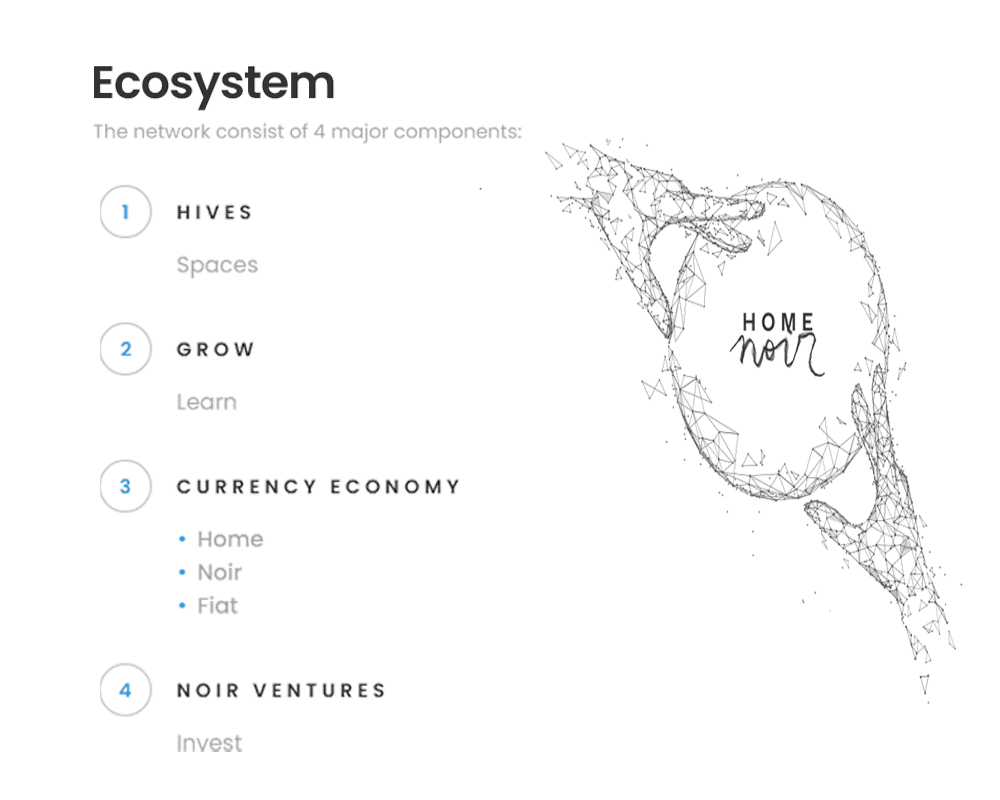
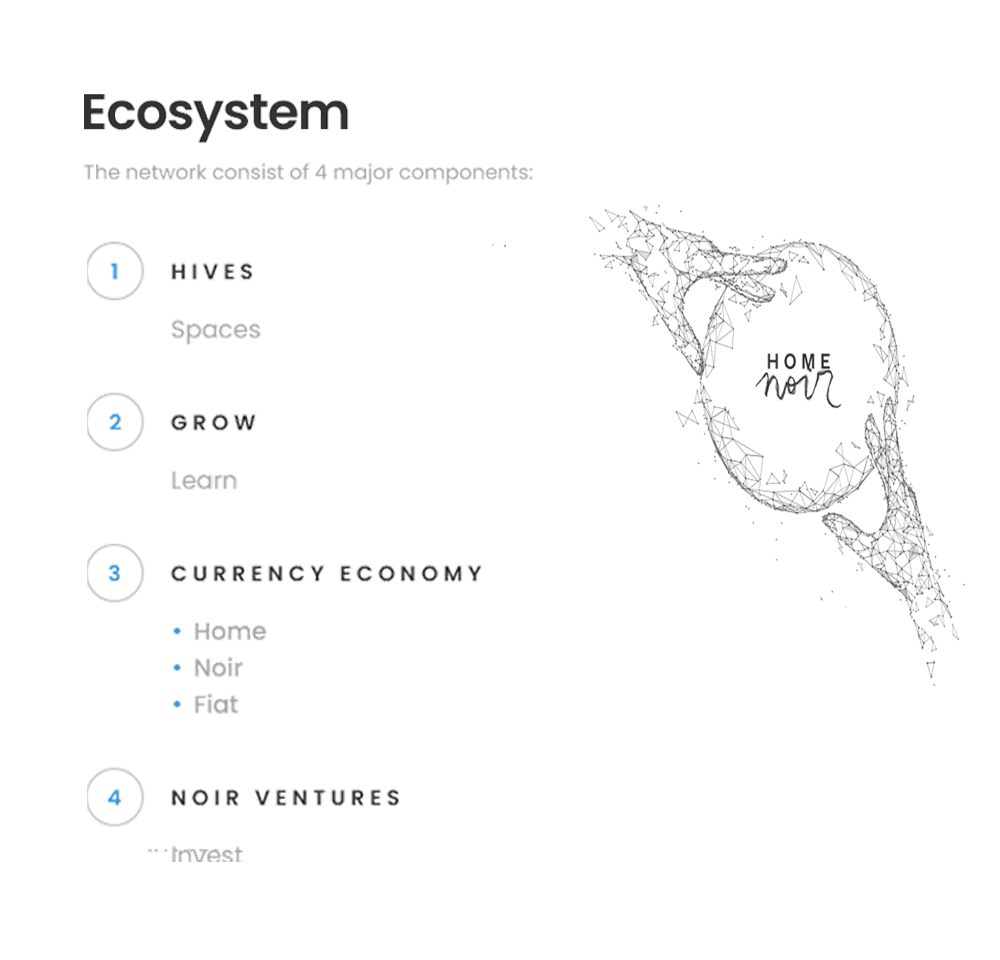
final mods on eco page segment

diff --git a/css/media.css b/css/media.css
@@ -179,32 +179,32 @@
     .eco .grow-a ,
     .eco .currency-a ,
     .eco .ventures-a {
-        height: 5.4vw;
+        height: 6.3vw;
         position: absolute;
     }
 
     .eco .hives-a {
-        margin-top: 18.4vw;
-        margin-left: 10vw;
-        width: 15.6vw;
+        margin-top: 24vw;
+        margin-left: 8.3vw;
+        width: 17.6vw;
     }
     
     .eco .grow-a {
-        margin-top: 32.2vw;
-        margin-left: 10vw;
-        width: 15.7vw;
+        margin-top: 39.2vw;
+        margin-left: 8.3vw;
+        width: 17.8vw;
     }
     
     .eco .currency-a {
-        margin-top: 45.8vw;
-        margin-left: 10vw;
-        width: 36.8vw;
+        margin-top: 54.2vw;
+        margin-left: 8.3vw;
+        width: 40.6vw;
     }
     
     .eco .ventures-a {
-        margin-top: 66.2vw;
-        margin-left: 10vw;
-        width: 29vw;
+        margin-top: 76.6vw;
+        margin-left: 8.3vw;
+        width: 32.6vw;
     }
 
     .footer .home-link {

diff --git a/about.html b/about.html
@@ -6,8 +6,8 @@
   <meta http-equiv="X-UA-Compatible" content="IE=edge,chrome=1">
   <meta name="apple-mobile-web-app-title" content="Noir | About">
   <meta name="application-name" content="Noir | About">
-  <link rel="stylesheet" href="css/main.css?4.3">
-  <link rel="stylesheet" href="css/media.css?4.3">
+  <link rel="stylesheet" href="css/main.css?5">
+  <link rel="stylesheet" href="css/media.css?5">
   <script src="js/particles-min.js"></script>
 
   <body>
@@ -109,4 +109,4 @@
   </body>
 </html>
 <!-- <script src="js/main.js?4"></script> -->
-<script src="js/particles_init.js?4"></script>
+<script src="js/particles_init.js?5"></script>

diff --git a/js/particles_init.js b/js/particles_init.js
@@ -1,7 +1,5 @@
 if (window.innerWidth < 1081) {
-    console.log('M');
     particlesJS.load('main-id', 'js/particles-m.json');
 } else {
-    console.log('not M');
     particlesJS.load('main-id', 'js/particles.json');
 }
